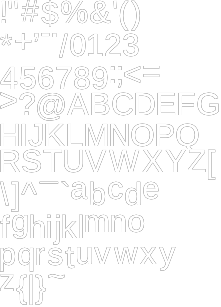
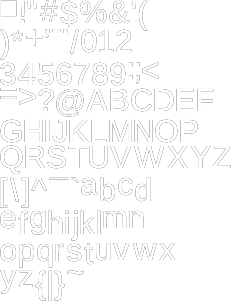
Use font atlas texture for plain rect rendering.

Changed region(s): [[0.0, 0.0, 1.0, 1.0]]

diff --git a/tools/font_packer/src/main.c b/tools/font_packer/src/main.c
@@ -93,7 +93,9 @@ static void rasterize_ttf(
     /* render glyphs */
     for (unsigned i = 0; i < char_set_size; ++i) {
         int c = (int)char_set[i];
-        SFT_UChar uc = (SFT_UChar)c;
+        /* We map null to unicode "black box" for gui rendering.
+         */
+        SFT_UChar uc = c != 0 ?  (SFT_UChar)c : 0x25A0;
         SFT_Glyph glyph;
         sft_lookup(&sft, uc, &glyph);
 
@@ -200,9 +202,15 @@ static void rasterize_ttf(
     sft_freefont(font);
 }
 
-#define DEFAULT_CHAR_SET_SIZE 95
+/* We include the null character which we later remap to the unicode code point
+ * "BLACK SQUARE" which will render as a filled in square. This is usefull for
+ * gui rendering, where we can reuse the font atlas texture to render colored
+ * rects by simply mapping the UV-coordinates to the center of the null
+ * character.
+ */
+#define DEFAULT_CHAR_SET_SIZE 96
 unsigned char default_char_set[DEFAULT_CHAR_SET_SIZE] = {
-    " !\"#$%&'()*+,-./0123456789:;<=>?"\
+    "\0 !\"#$%&'()*+,-./0123456789:;<=>?"\
     "@ABCDEFGHIJKLMNOPQRSTUVWXYZ"\
     "[\\]^_`"\
     "abcdefghijklmnopqrstuvwxyz"\

diff --git a/src/daedalus/gui/game_gui.cpp b/src/daedalus/gui/game_gui.cpp
@@ -81,6 +81,12 @@ GameGui::GameGui(prt3::Scene & scene) {
             }
         }
     }
+
+    if (n_atlases > 0) {
+        prt3::FontChar const & fc0 = m_atlas.metadata[0].char_data[0];
+        glm::vec2 uv = fc0.uv_origin + 0.5f * fc0.uv_dimension;
+        m_atlas.uv_0xffff = uv;
+    }
 }
 
 void GameGui::on_update(
@@ -108,10 +114,10 @@ void GameGui::on_update(
 
     cn.mode = prt3::CanvasNode::Mode::rect;
 
-    cn.u.rect.uv0 = glm::vec2{0.0f, 0.0f};
-    cn.u.rect.uv1 = glm::vec2{0.0f, 0.0f};
-    cn.u.rect.uv2 = glm::vec2{0.0f, 0.0f};
-    cn.u.rect.uv3 = glm::vec2{0.0f, 0.0f};
+    cn.u.rect.uv0 = m_atlas.uv_0xffff;
+    cn.u.rect.uv1 = m_atlas.uv_0xffff;
+    cn.u.rect.uv2 = m_atlas.uv_0xffff;
+    cn.u.rect.uv3 = m_atlas.uv_0xffff;
 
     cn.layer = 0;
 

diff --git a/src/daedalus/gui/game_gui.h b/src/daedalus/gui/game_gui.h
@@ -27,6 +27,7 @@ private:
 
     struct GUIAtlas {
         prt3::ResourceID texture = prt3::NO_RESOURCE;
+        glm::vec2 uv_0xffff; // points to a uv-coordinate with value 0xffff
         std::vector<FontMetadata> metadata;
     };
 
